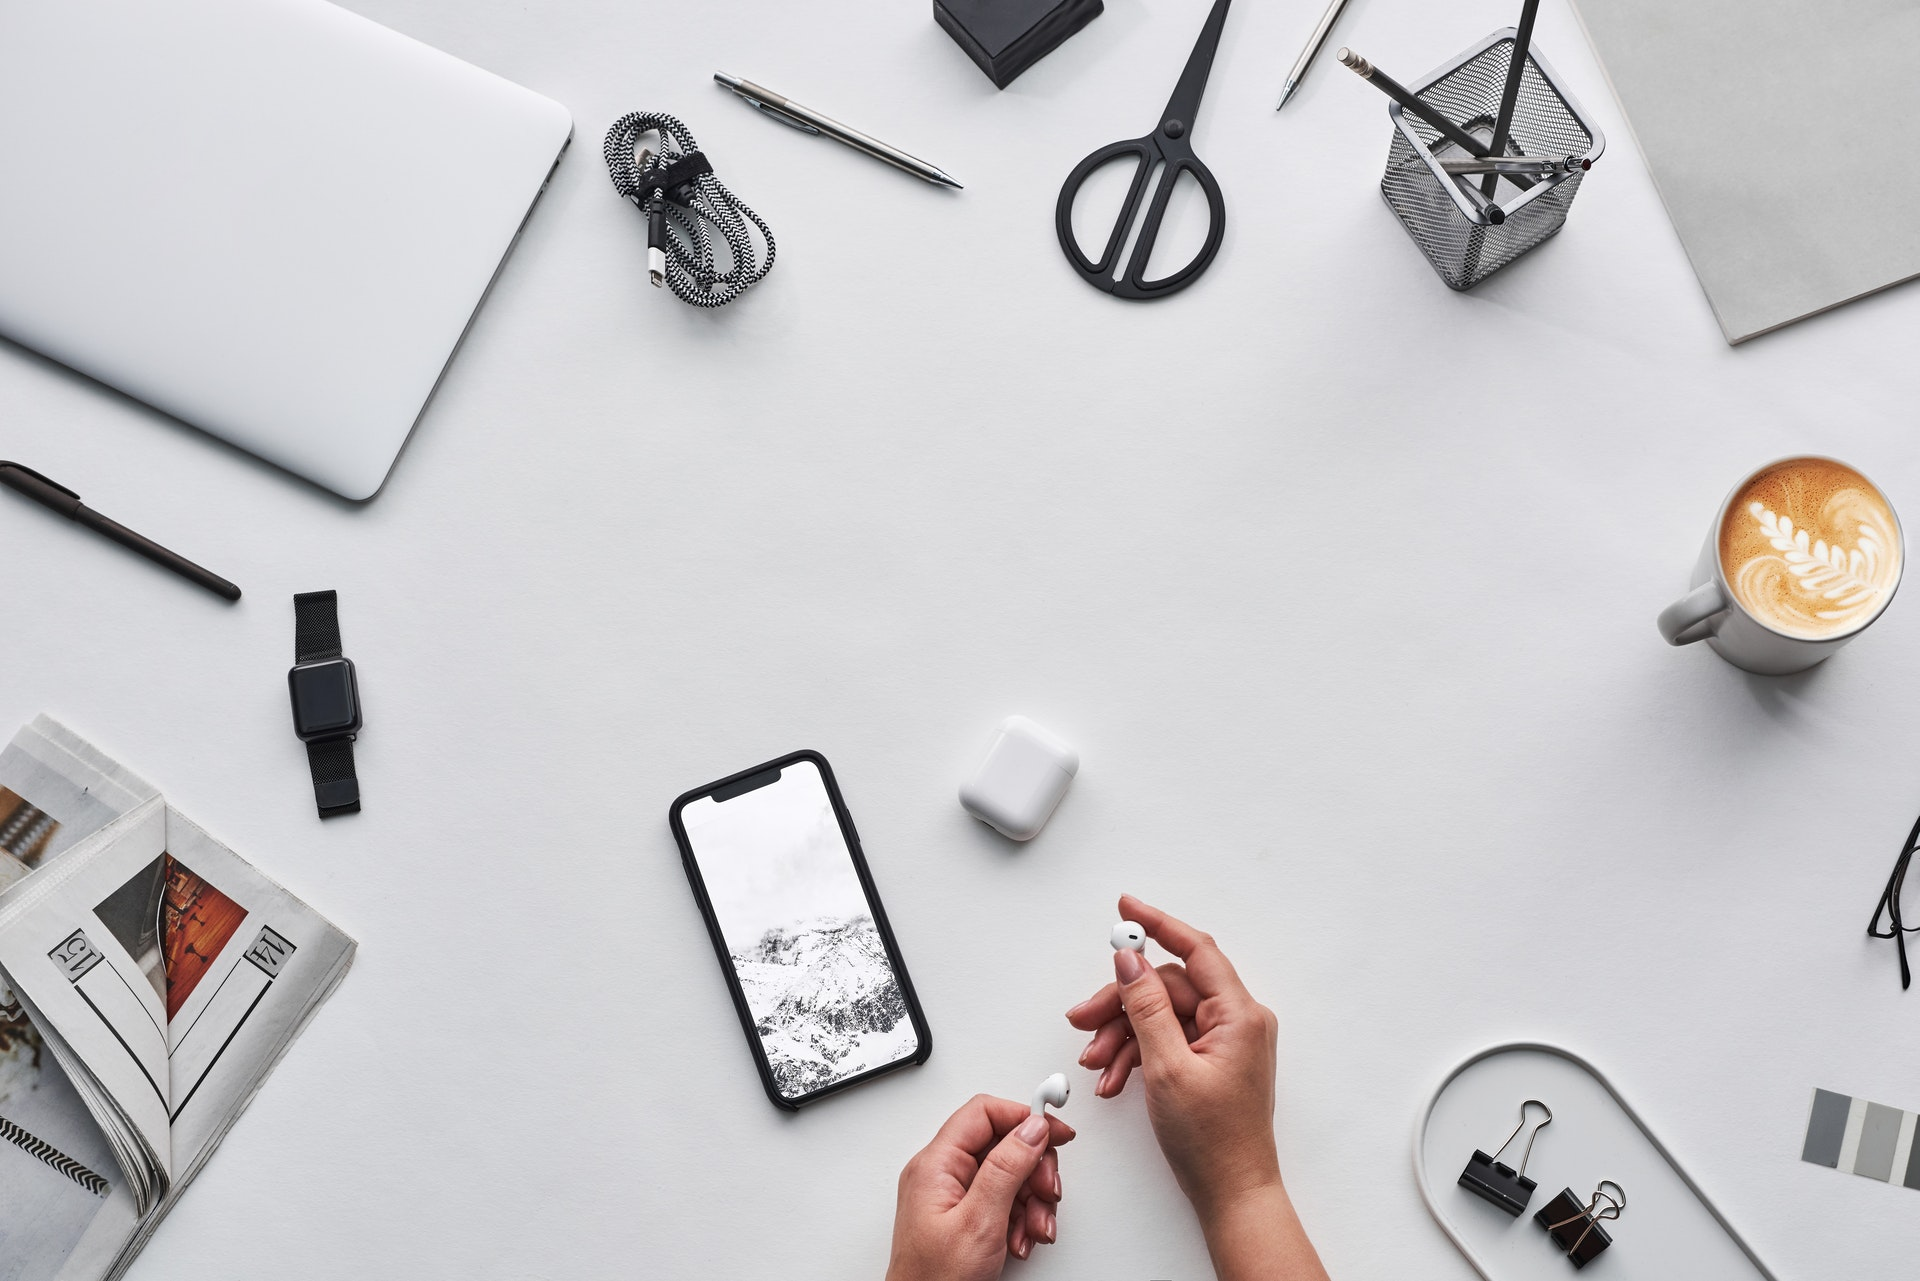
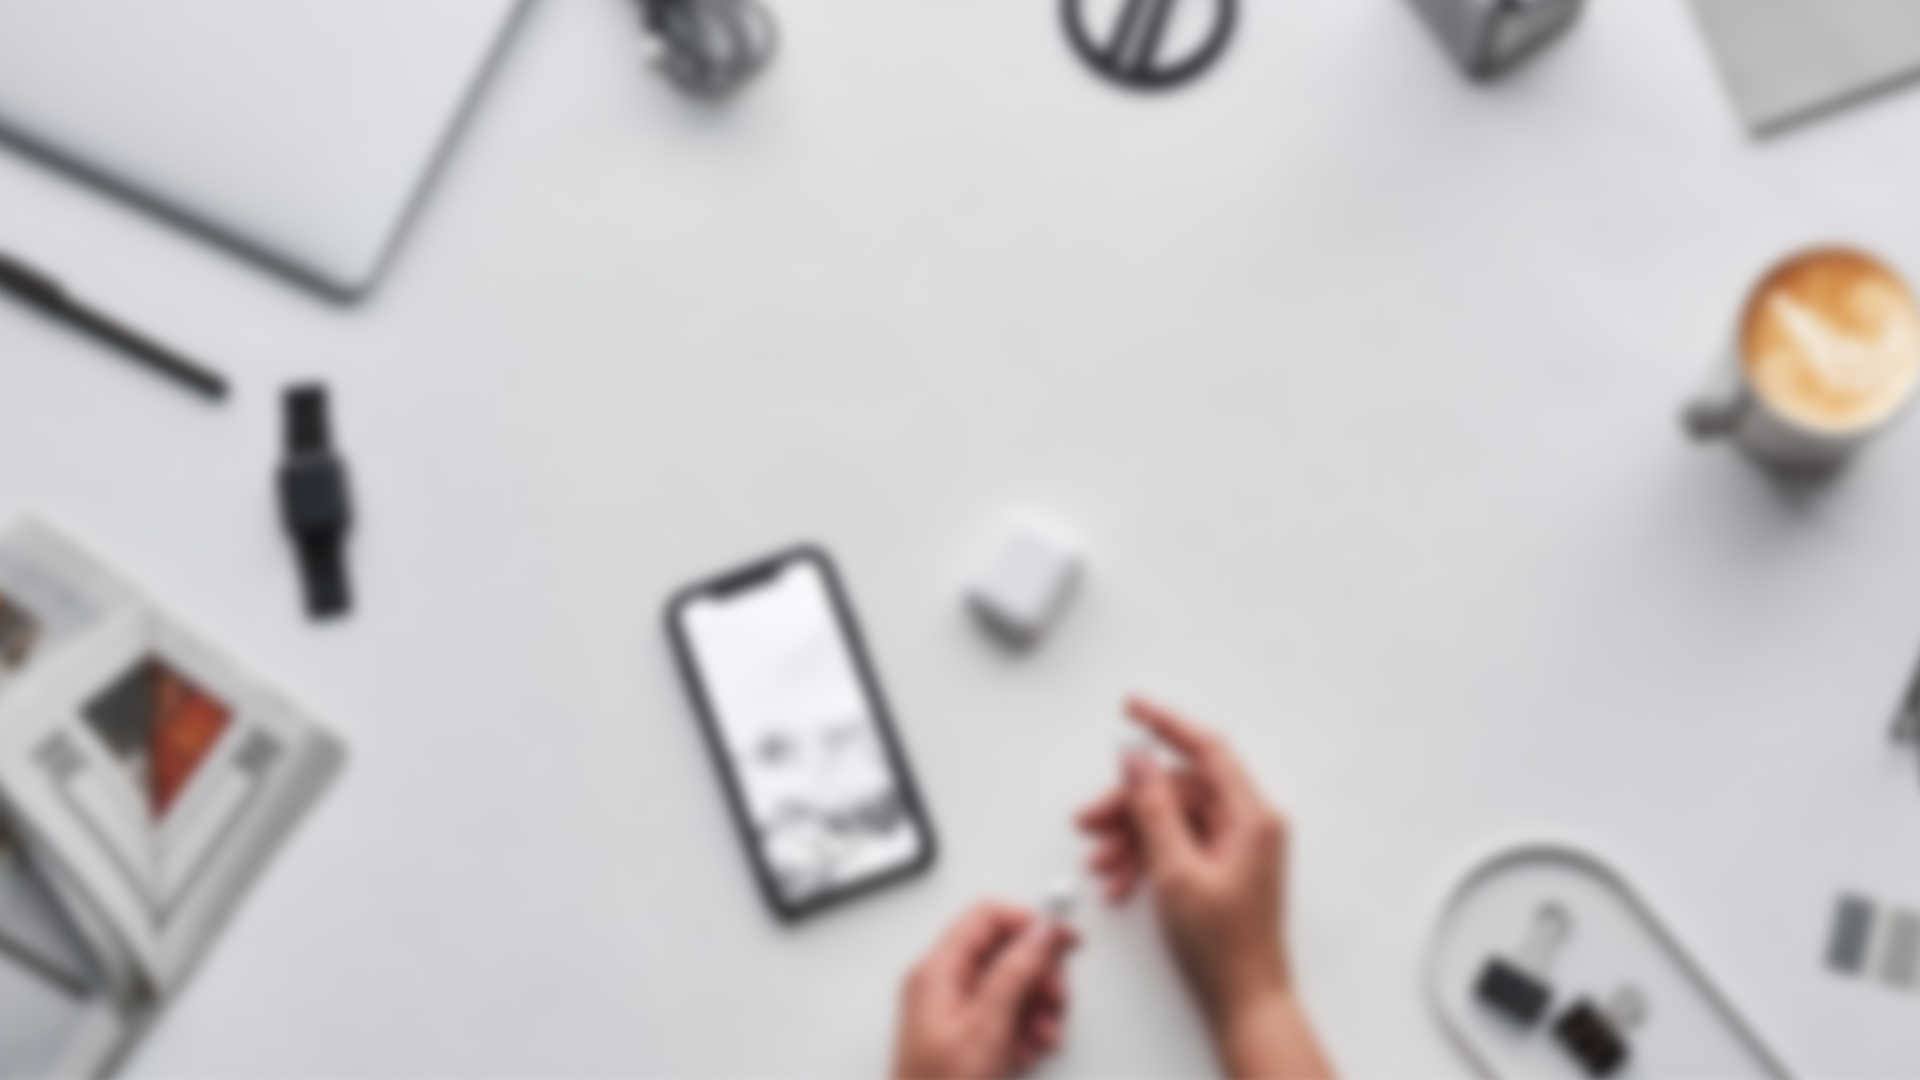
styles

diff --git a/index.html b/index.html
@@ -20,16 +20,16 @@
         <div class="main">
             <h1>Coming Soon!</h1>
             <p>We are excited to announce that we are in the process of launching a new website. </p>
-            <h2>Fall of 2021</h2>
+            <h2>Fall 2021</h2>
             <div class="cta">
                 <a href="tel:3166872143">
-                <img src="./call.svg" alt="call">
+                <img src="./call.svg" alt="call" title="Call">
             </a>
             <a href="mailto:jyeskie@redstoneadv.com">
-                <img src="./email.svg" alt="email">
+                <img src="./email.svg" alt="email" title="Email">
             </a>
-            <a href="tel:3164616735">
-                <img src="./address.svg" alt="address">
+            <a href="https://www.google.com/maps/place/Redstone+Advisors+Inc/@37.7271708,-97.2428227,15z/data=!4m5!3m4!1s0x0:0xed9d4c38b13390e!8m2!3d37.727213!4d-97.2428235" target="_blank">
+                <img src="./address.svg" alt="address" title="Find Us">
             </a>
             </div>
         </div>

diff --git a/styles.css b/styles.css
@@ -13,8 +13,6 @@ body, html {
 .bg-img{
 
  background-image: url('./landing.jpg');
-  filter: blur(4px);
-  -webkit-filter: blur(8px);
   height: 100%; 
   background-position: center;
   background-repeat: no-repeat;
@@ -33,9 +31,12 @@ section{
 
 }
 nav{
+    width: max-content;
+    margin: 0 auto;
     font-weight: 600;
     font-size: 2rem;
     padding-top: 1rem;
+    text-align: center;
 }
 
 nav h2{
@@ -50,11 +51,11 @@ h1{
 p{
     padding-top: 1rem;
     font-size: 1.4rem;
-    width: 50%;
+    max-width: 500px;
     text-align: center;
     margin: 0 auto;
     line-height: 2rem;
-    color: #263238;
+    color: #000;
 }
 .cta{
     width: max-content;
@@ -92,8 +93,9 @@ footer span{
 }
 
 .main h2{
-    padding-top: 2rem;
-    font-weight: 500;
+    padding-top: 4rem;
+    font-weight: 600;
+    font-size: 2.5rem;
     text-align: center;
-    color: #263238;
+    color: #000;
 }
